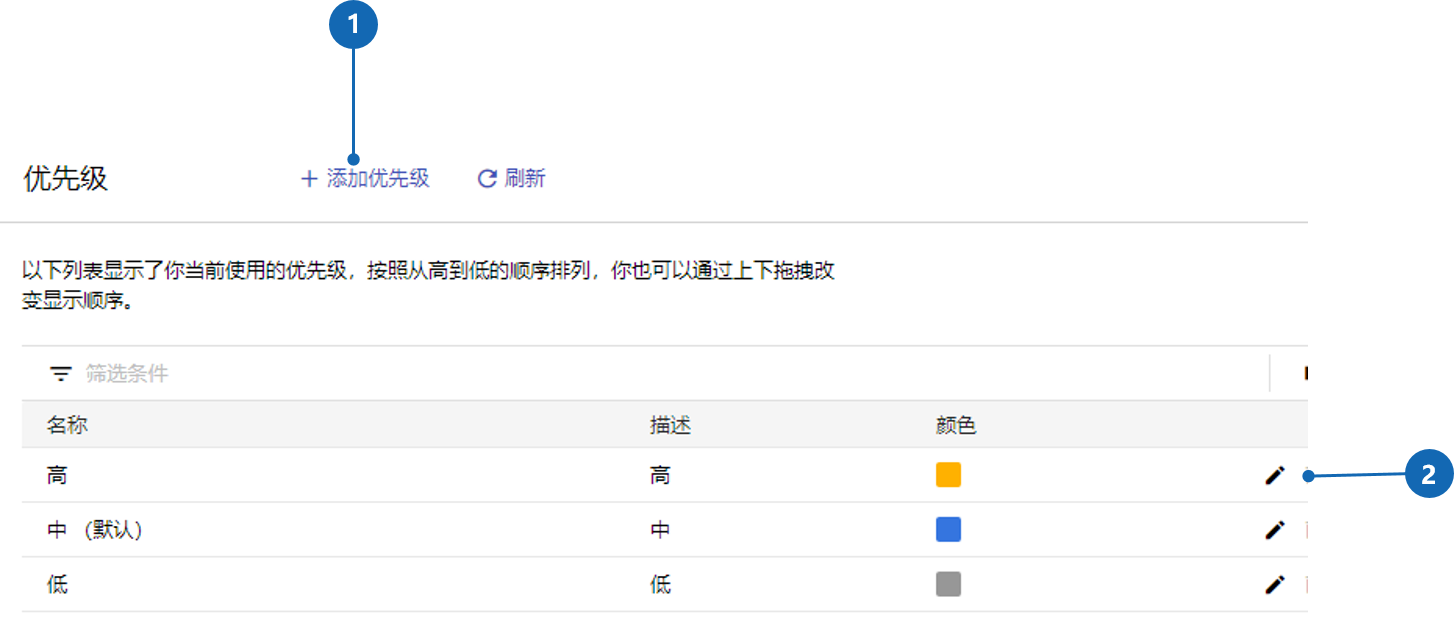
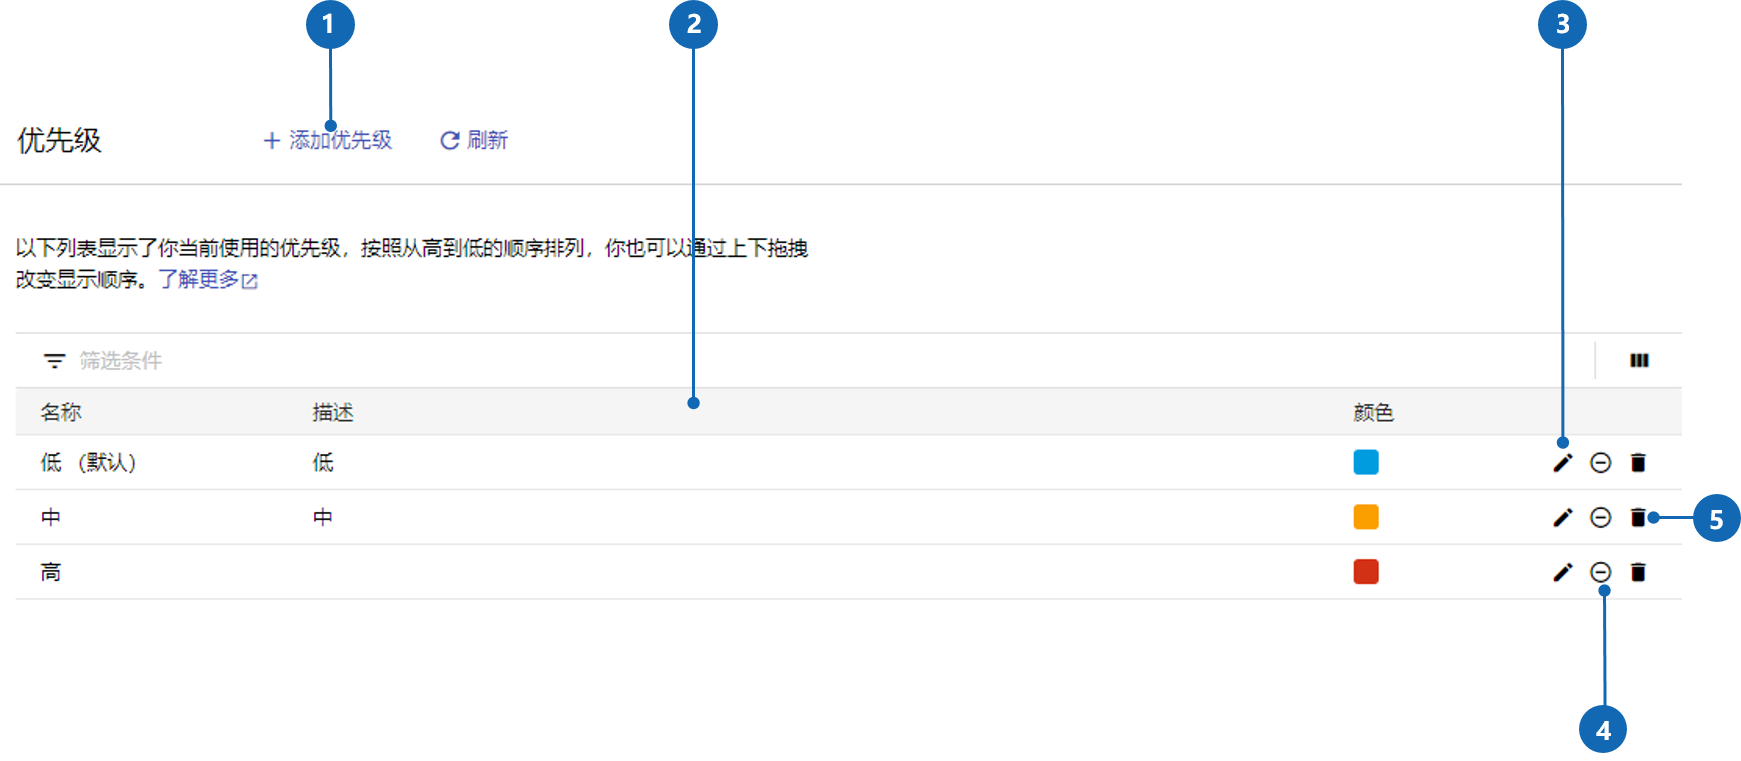
V0.15.0版本用户手册第三版

diff --git a/content/docs/user-guide/agile/sprint/manage-kanban.md b/content/docs/user-guide/agile/sprint/manage-kanban.md
@@ -48,7 +48,7 @@ weight = 3
 列约束下拉框有三个选项，分别是：`无`、`问题计数`、`问题计数，不包括子任务`。
 
 - `无`选项表示列对问题数量没有任何约束，问题可任意拖拽。
-- `问题计数`选项可以为每一列配置问题数量的`最大值`和`最小值`，即当我们要从一列中拖拽出一个问题时，会判断当前列的数量是否小于等于`最小值`，如果是，则不允许拖出，系统会提示`少于列待处理的最小长度，无法更新`；同理，一个问题拖入某一列，会判断当前列的问题数量是否大于等于`最大值`，如果是，则不允许拖入，系统会提示`多于列处理中的最大长度，无法更新`。
+- `问题计数`选项可以为每一列配置问题数量的`最大值`和`最小值`，即当我们要从一列中拖拽出一个问题时，会判断当前列的数量是否小于等于`最小值`，如果是，则拖出问题的列变为黄色；同理，一个问题拖入某一列，会判断当前列的问题数量是否大于等于`最大值`，如果是，则该列变为红色。
 - `问题计数，不包括子任务`与`问题计数`同理，唯一不同的是列的问题计数不包括子任务在内。 
 
 <blockquote class="note">

diff --git a/content/docs/user-guide/system-configuration/issue-configuration/issue-properties/issue-priority.md b/content/docs/user-guide/system-configuration/issue-configuration/issue-properties/issue-priority.md
@@ -20,4 +20,7 @@ description = "问题在项目中紧急程度的表示"
           默认的优先级只有一个，设置为默认优先级后项目创建的问题的默认优先级都为此优先级
  </blockquote>
 
-2. 点击编辑图标可链接到编辑优先级页面，对优先级进行编辑
+2. 优先级排序：拖动优先级的位置，可以对优先级进行排序，使项目层的优先级的显示顺序发生改变
+3. 点击编辑图标可链接到编辑优先级页面，对优先级进行编辑，包括优先级的名称、颜色和是否为默认等
+4. 停用优先级：优先级设置停用后，项目层无法在继续选择此优先级，停用后的优先级可以再启用
+5. 删除优先级：对组织层的优先级进行删除，如果项目层中问题的优先级属性为此优先级，则需要将这些问题的优先转化为其他优先级
